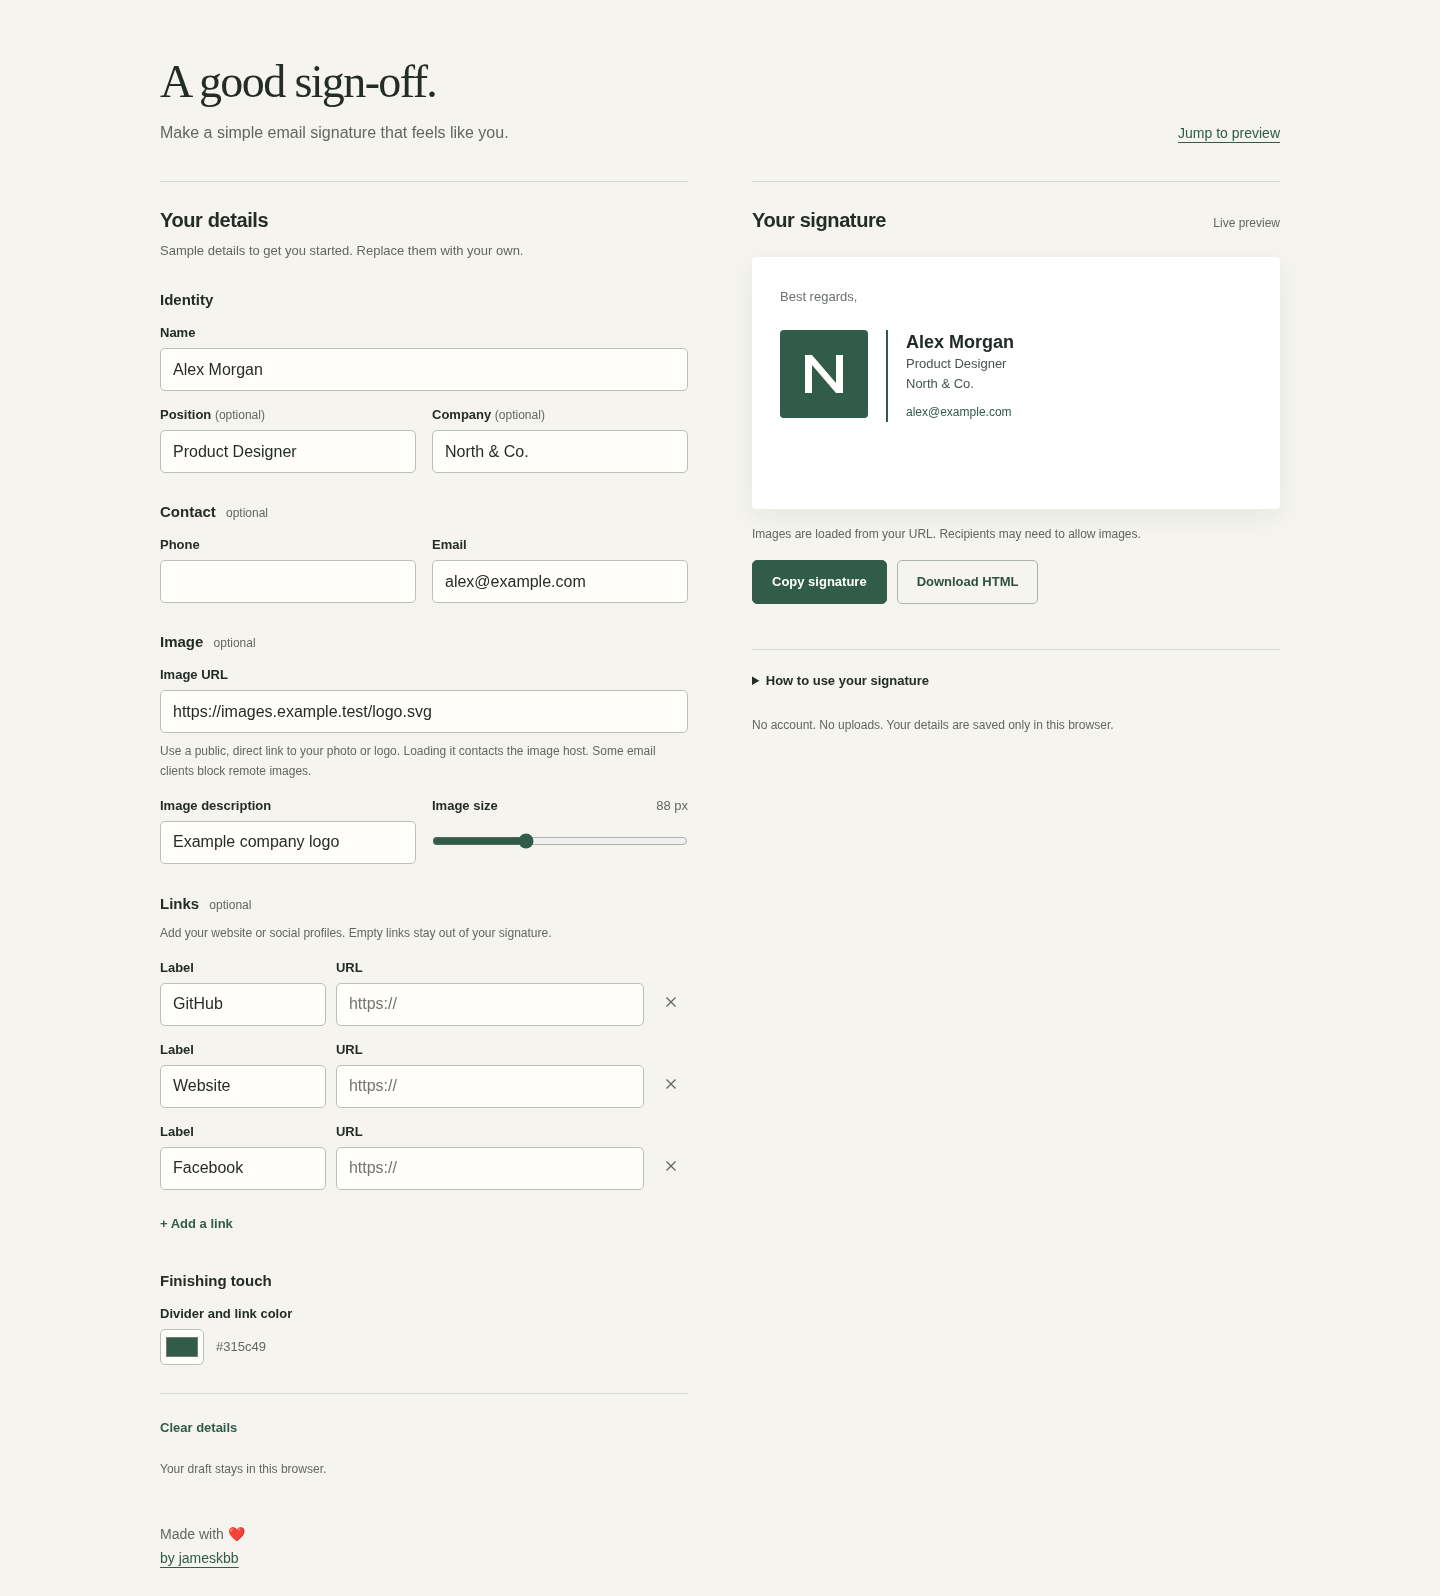
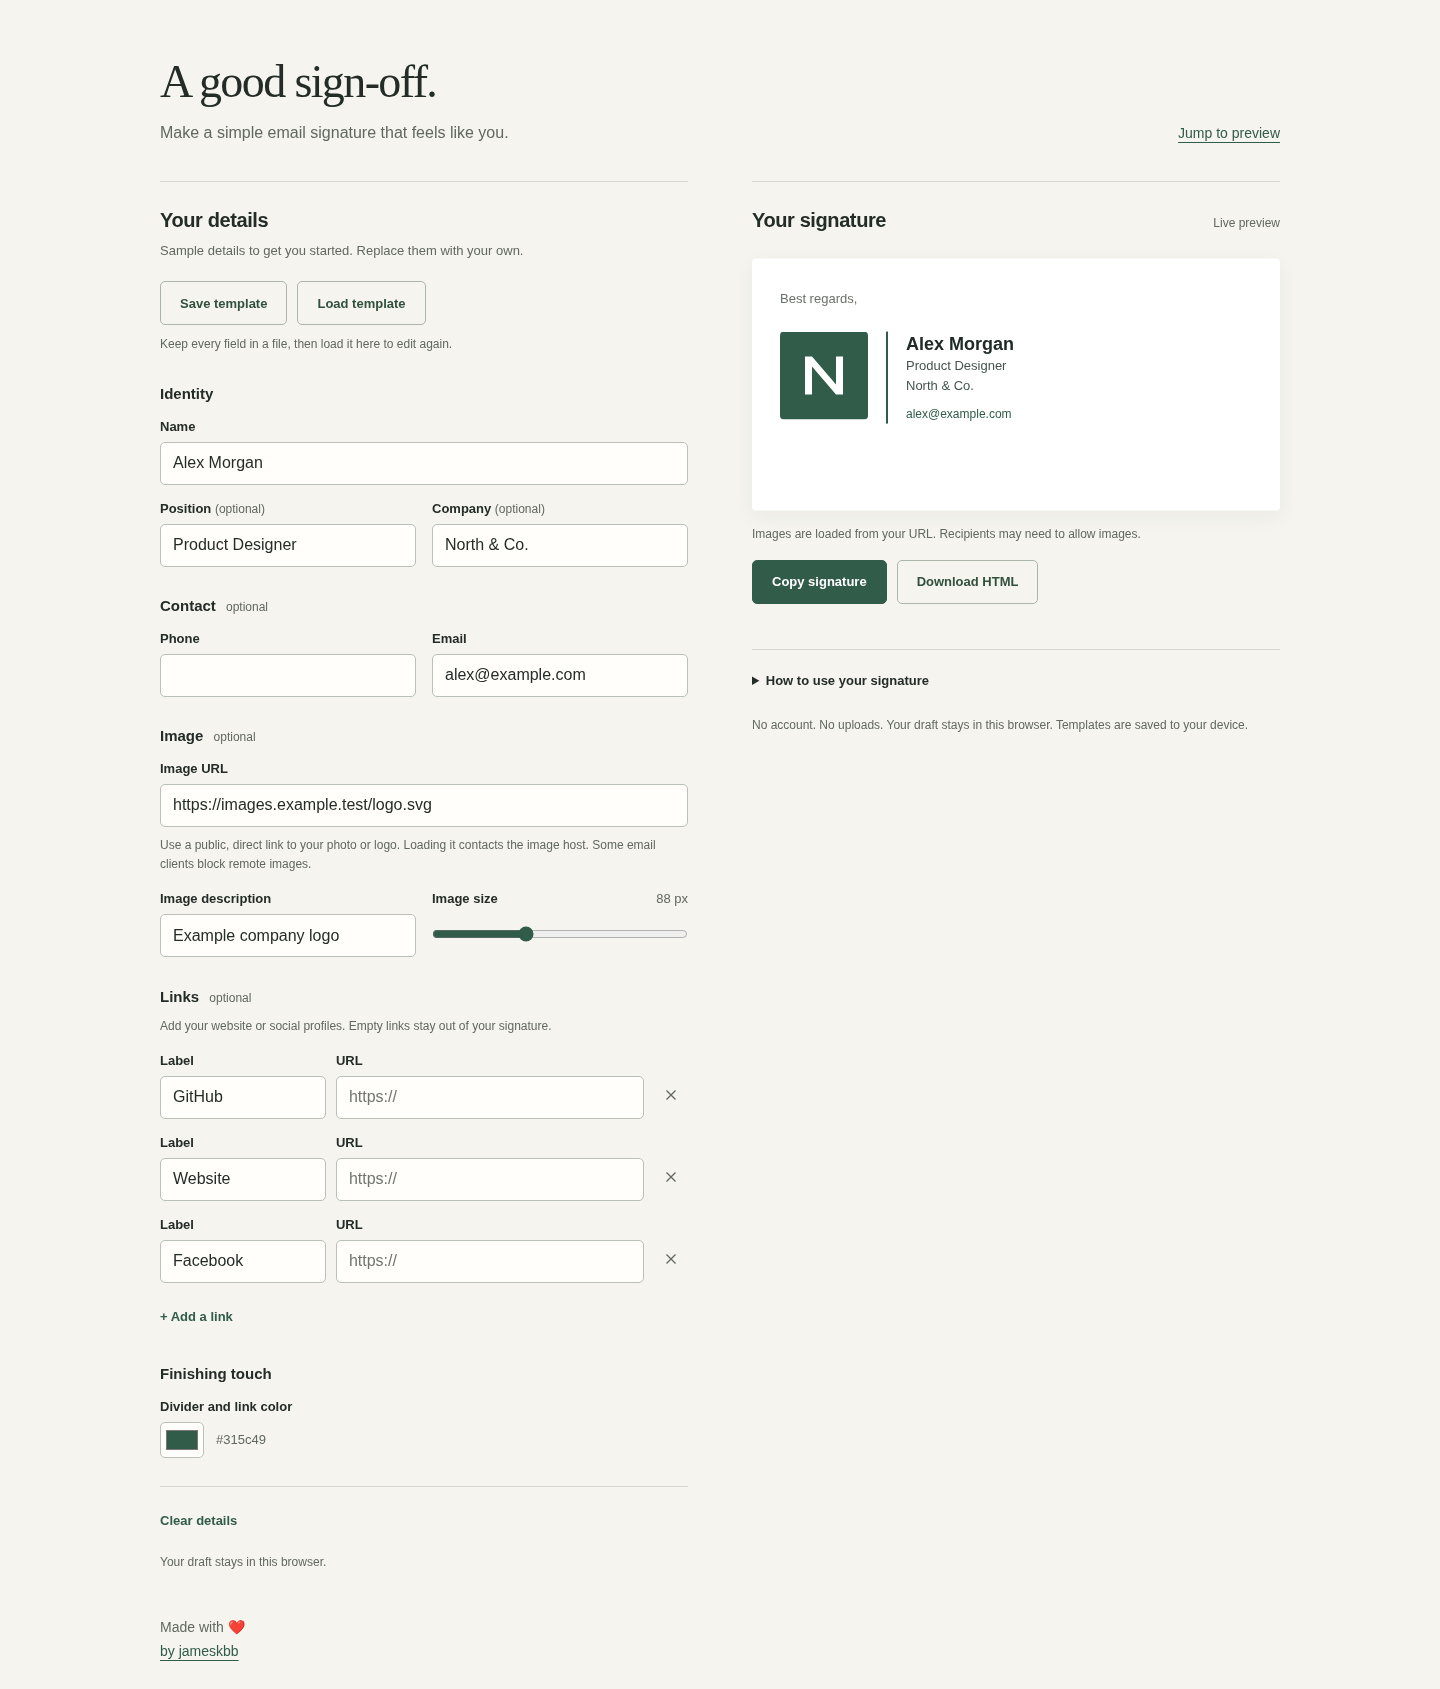
Add lossless signature template save and load
Preserve every editable value in versioned local JSON files, restore saved drafts with undo, and verify complete browser round trips.

diff --git a/app.js b/app.js
@@ -35,19 +35,61 @@
   }
   state = state || clone(sample);
 
+  function persist() {
+    clearTimeout(saveTimer);
+    try {
+      localStorage.setItem(draftKey, JSON.stringify(state));
+      storageUnavailable = false;
+      $('storage-status').textContent = 'Draft saved in this browser.';
+    } catch (error) {
+      storageUnavailable = true;
+      $('storage-status').textContent = 'This browser cannot save your draft. Save a template before closing this page.';
+    }
+  }
   function save() {
     clearTimeout(saveTimer);
-    saveTimer = setTimeout(function () {
-      try {
-        localStorage.setItem(draftKey, JSON.stringify(state));
-        storageUnavailable = false;
-        $('storage-status').textContent = 'Draft saved in this browser.';
-      } catch (error) {
-        storageUnavailable = true;
-        $('storage-status').textContent = 'This browser cannot save your draft. Copy or download it before closing this page.';
-      }
-    }, 250);
+    saveTimer = setTimeout(persist, 250);
   }
+
+  function templateStatus(message, error) {
+    $('template-status').hidden = false;
+    $('template-status').textContent = message;
+    $('template-status').classList.toggle('warning', Boolean(error));
+  }
+  function downloadFile(contents, type, filename) {
+    var url = URL.createObjectURL(new Blob([contents], { type: type }));
+    var anchor = document.createElement('a');
+    anchor.href = url; anchor.download = filename;
+    document.body.appendChild(anchor); anchor.click(); anchor.remove();
+    setTimeout(function () { URL.revokeObjectURL(url); }, 1000);
+  }
+  $('save-template').addEventListener('click', function () {
+    try {
+      downloadFile(SignatureTemplate.serialize(state), 'application/json;charset=utf-8', 'email-signature-template.json');
+      templateStatus('Template saved. Load this file to restore every field, including unfinished details.');
+    } catch (error) { templateStatus(error.message, true); }
+  });
+  $('load-template').addEventListener('click', function () { $('template-file').click(); });
+  $('template-file').addEventListener('change', async function () {
+    var file = this.files[0];
+    this.value = '';
+    if (!file) return;
+    try {
+      if (file.size > SignatureTemplate.maxBytes) throw new Error('This template is too large. Choose a file smaller than 100 KiB.');
+      var loaded = SignatureTemplate.parse(await file.text());
+      clearTimeout(saveTimer);
+      clearTimeout(renderTimer);
+      undoState = clone(state);
+      state = loaded;
+      lastImageUrl = ''; imageFailed = false;
+      fillForm(); changed();
+      clearTimeout(renderTimer);
+      persist();
+      $('restore').textContent = 'Undo load';
+      $('restore').hidden = false;
+      templateStatus('Template loaded. Every field is restored. Use Undo load to restore your previous draft.');
+    } catch (error) { templateStatus(error.message + ' Your draft has not changed.', true); }
+  });
 
   function setError(input, output, message) {
     input.setAttribute('aria-invalid', message ? 'true' : 'false');
@@ -170,6 +212,7 @@
     undoState = clone(state);
     state = { name: '', position: '', company: '', phone: '', email: '', imageUrl: '', imageAlt: '', imageSize: 88, accent: '#315c49', links: [] };
     fillForm(); changed();
+    $('restore').textContent = 'Undo clear';
     $('restore').hidden = false;
     $('action-status').textContent = 'Details cleared. Use Undo clear to restore them.';
     $('name').focus();
@@ -178,7 +221,8 @@
     if (!undoState) return;
     state = undoState; undoState = null;
     $('restore').hidden = true;
-    fillForm(); changed();
+    fillForm(); changed(); persist();
+    templateStatus('Your previous draft is restored.');
     $('action-status').textContent = 'Your previous details are restored.';
     $('name').focus();
   });
@@ -219,11 +263,7 @@
     render();
     if (!valid || !$('preview').innerHTML.trim()) return;
     var html = '<!doctype html>\n<html lang="en"><head><meta charset="utf-8"><meta name="viewport" content="width=device-width, initial-scale=1"><title>Email signature</title></head><body>\n' + Signature.render(state) + '\n</body></html>\n';
-    var url = URL.createObjectURL(new Blob([html], { type: 'text/html;charset=utf-8' }));
-    var anchor = document.createElement('a');
-    anchor.href = url; anchor.download = 'email-signature.html';
-    document.body.appendChild(anchor); anchor.click(); anchor.remove();
-    setTimeout(function () { URL.revokeObjectURL(url); }, 1000);
+    downloadFile(html, 'text/html;charset=utf-8', 'email-signature.html');
     $('action-status').textContent = 'HTML download started. Open the file to view your signature.';
   });
   window.addEventListener('pagehide', function () {

diff --git a/index.html b/index.html
@@ -7,6 +7,7 @@
   <title>Email signature studio</title>
   <link rel="stylesheet" href="styles.css">
   <script src="signature.js" defer></script>
+  <script src="template.js" defer></script>
   <script src="app.js" defer></script>
 </head>
 <body>
@@ -18,12 +19,13 @@
   <main class="workspace">
     <form id="editor" novalidate>
       <div class="editor-intro"><h2>Your details</h2><p id="sample-note">Sample details to get you started. Replace them with your own.</p></div>
+      <div class="template-actions"><button type="button" id="save-template" class="secondary-button">Save template</button><button type="button" id="load-template" class="secondary-button">Load template</button><input type="file" id="template-file" accept=".json,application/json" hidden><p class="field-help">Keep every field in a file, then load it here to edit again.</p><p id="template-status" role="status" aria-live="polite" hidden></p></div>
       <fieldset><legend>Identity</legend>
         <label for="name">Name</label><input id="name" name="name" autocomplete="name" maxlength="160">
         <div class="field-pair"><div><label for="position">Position <span>(optional)</span></label><input id="position" name="position" autocomplete="organization-title" maxlength="160"></div><div><label for="company">Company <span>(optional)</span></label><input id="company" name="company" autocomplete="organization" maxlength="160"></div></div>
       </fieldset>
       <fieldset><legend>Contact <span>optional</span></legend>
-        <div class="field-pair"><div><label for="phone">Phone</label><input id="phone" name="phone" type="tel" autocomplete="tel" maxlength="80"></div><div><label for="email">Email</label><input id="email" name="email" type="email" autocomplete="email" maxlength="254" aria-describedby="email-error"><p class="field-error" id="email-error" hidden></p></div></div>
+        <div class="field-pair"><div><label for="phone">Phone</label><input id="phone" name="phone" type="tel" autocomplete="tel" maxlength="80"></div><div><label for="email">Email</label><input id="email" name="email" type="text" inputmode="email" autocomplete="email" maxlength="254" aria-describedby="email-error"><p class="field-error" id="email-error" hidden></p></div></div>
       </fieldset>
       <fieldset><legend>Image <span>optional</span></legend>
         <label for="imageUrl">Image URL</label><input id="imageUrl" name="imageUrl" type="text" inputmode="url" placeholder="https://example.com/photo.jpg" aria-describedby="image-help image-error">
@@ -38,12 +40,12 @@
       <div class="preview-title"><h2 id="preview-heading" tabindex="-1">Your signature</h2><span>Live preview</span></div>
       <div class="email-paper"><p class="email-context">Best regards,</p><div id="preview" tabindex="0" aria-label="Signature preview"></div><p id="empty-note" class="empty-note" hidden>Add your name or contact details to begin.</p></div>
       <p class="preview-note" id="image-status" role="status"></p>
-      <p id="export-error" class="field-error" hidden>Fix the highlighted fields before copying or downloading.</p>
+      <p id="export-error" class="field-error" hidden>Fix the highlighted fields before copying or downloading HTML. You can still save a template.</p>
       <div class="export-actions"><button type="button" id="copy" class="primary-button">Copy signature</button><button type="button" id="download" class="secondary-button">Download HTML</button></div>
       <p id="action-status" class="action-status" role="status" aria-live="polite"></p>
       <div id="manual-copy" class="manual-copy" hidden><p>Automatic copying is unavailable. Select the signature below, then press Ctrl+C (Windows) or Command+C (Mac).</p><button type="button" id="select-signature" class="secondary-button">Select signature</button></div>
       <details class="paste-help"><summary>How to use your signature</summary><ol><li>Copy your signature.</li><li>Open your email app's settings and find its signature editor.</li><li>Paste, save, and send yourself a test email.</li></ol><p>Email apps may adjust spacing, fonts, or images. The HTML download is useful for apps that accept an HTML file.</p></details>
-      <p class="privacy-note">No account. No uploads. Your details are saved only in this browser.</p>
+      <p class="privacy-note">No account. No uploads. Your draft stays in this browser. Templates are saved to your device.</p>
     </aside>
   </main>
   <footer class="attribution"><span>Made with <span role="img" aria-label="love">❤</span></span><a href="https://github.com/jameskbb">by jameskbb</a></footer>

diff --git a/template.js b/template.js
@@ -1,0 +1,44 @@
+(function () {
+  'use strict';
+  var MAX_BYTES = 100 * 1024;
+  var strings = ['name', 'position', 'company', 'phone', 'email', 'imageUrl', 'imageAlt', 'accent'];
+  function object(value) { return value && typeof value === 'object' && !Array.isArray(value); }
+  function validate(value) {
+    if (!object(value) || value.format !== 'email-signature-template' || value.version !== 1) {
+      throw new Error('Choose an email signature template saved by this editor (version 1).');
+    }
+    var data = value.signature;
+    if (!object(data) || strings.some(function (key) { return typeof data[key] !== 'string'; }) ||
+        !Number.isInteger(data.imageSize) || data.imageSize < 48 || data.imageSize > 160 ||
+        !/^#[0-9a-f]{6}$/i.test(data.accent) || !Array.isArray(data.links) ||
+        data.links.some(function (link) { return !object(link) || typeof link.label !== 'string' || typeof link.url !== 'string'; })) {
+      throw new Error('This template has missing or invalid fields. Choose another template.');
+    }
+    // Copy only editable fields, retaining their exact values and link order.
+    return {
+      name: data.name, position: data.position, company: data.company,
+      phone: data.phone, email: data.email, imageUrl: data.imageUrl,
+      imageAlt: data.imageAlt, imageSize: data.imageSize, accent: data.accent,
+      links: data.links.map(function (link) { return { label: link.label, url: link.url }; })
+    };
+  }
+  function checkSize(text) {
+    if (new TextEncoder().encode(text).length > MAX_BYTES) throw new Error('This template is too large. Choose a file smaller than 100 KiB.');
+  }
+  function parse(text) {
+    checkSize(text);
+    var value;
+    try { value = JSON.parse(text); } catch (error) { throw new Error('This file is not valid JSON. Choose a saved signature template.'); }
+    return validate(value);
+  }
+  function serialize(signature) {
+    var value = { format: 'email-signature-template', version: 1, signature: signature };
+    value.signature = validate(value);
+    var text = JSON.stringify(value, null, 2) + '\n';
+    checkSize(text);
+    return text;
+  }
+  var api = { parse: parse, serialize: serialize, maxBytes: MAX_BYTES };
+  if (typeof module !== 'undefined' && module.exports) module.exports = api;
+  else window.SignatureTemplate = api;
+})();

diff --git a/tests/template.test.js b/tests/template.test.js
@@ -1,0 +1,33 @@
+const { test } = require('node:test');
+const assert = require('node:assert/strict');
+const Template = require('../template.js');
+const signature = {
+  name: '  <img onerror="alert(1)"> Éxample  ', position: '', company: ' Company ',
+  phone: ' +1 (555) 010-1000 ', email: ' unfinished@ ', imageUrl: ' javascript:unfinished ',
+  imageAlt: ' A & B ', imageSize: 137, accent: '#A1b2C3',
+  links: [{ label: ' Second ', url: ' broken url ' }, { label: '', url: '' }, { label: 'First', url: '' }]
+};
+test('exact round trip retains every field, whitespace, unfinished values and ordered blank rows', () => {
+  const encoded = Template.serialize(signature);
+  assert.deepEqual(Template.parse(encoded), signature);
+  assert.equal(Template.serialize(Template.parse(encoded)), encoded);
+  assert.ok(encoded.endsWith('\n'));
+  assert.deepEqual(Object.keys(JSON.parse(encoded)), ['format', 'version', 'signature']);
+});
+test('rejects malformed, unknown and structurally invalid files without changing source data', () => {
+  const before = structuredClone(signature);
+  for (const value of [null, [], {}, { format: 'other', version: 1, signature },
+    { format: 'email-signature-template', version: 2, signature },
+    ...[{ name: null }, { links: [{}] }, { links: 'bad' }, { imageSize: 47 }, { imageSize: 161 }, { imageSize: 80.5 }, { accent: 'red' }, { email: 1 }].map(patch => ({ format: 'email-signature-template', version: 1, signature: { ...signature, ...patch } }))]) {
+    assert.throws(() => Template.parse(JSON.stringify(value)));
+  }
+  assert.throws(() => Template.parse('{'));
+  assert.throws(() => Template.parse(' '.repeat(Template.maxBytes + 1)));
+  assert.deepEqual(signature, before);
+});
+test('omits view-only state and returns independent editable values', () => {
+  const parsed = Template.parse(Template.serialize({ ...signature, sample: true, warning: 'example' }));
+  assert.deepEqual(parsed, signature);
+  parsed.links[0].label = 'changed';
+  assert.equal(signature.links[0].label, ' Second ');
+});

diff --git a/styles.css b/styles.css
@@ -567,3 +567,25 @@ footer {
   font-family: Arial, Helvetica, sans-serif;
   font-style: normal;
 }
+
+.template-actions {
+  display:flex;
+  flex-wrap:wrap;
+  gap:10px;
+  margin-top:20px;
+}
+
+.template-actions p {
+  flex-basis:100%;
+  margin:0;
+  font-size:12px;
+  line-height:1.6;
+}
+
+#template-status {
+  color:var(--green);
+}
+
+#template-status.warning {
+  color:var(--error);
+}

diff --git a/README.md b/README.md
@@ -10,7 +10,7 @@ Make a clean email signature: image on the left, a solid divider, then your name
 
 [View the mobile editor](docs/images/editor-mobile.png).
 
-Plain HTML, CSS, and JavaScript. No account, application dependencies, or build step. Your draft stays in this browser; the image host receives a request when you preview its image.
+Plain HTML, CSS, and JavaScript. No account, application dependencies, or build step. Your draft stays in this browser, and templates can be saved to your device; the image host receives a request when you preview its image.
 
 ## Run
 
@@ -23,6 +23,14 @@ python3 -m http.server 8000 --bind 127.0.0.1
 ```
 
 Open http://localhost:8000. Replace the example details, paste a public direct image URL, and add any links you want. Blank optional fields disappear. Use **Copy signature**, then paste into your email client's signature editor. You can also download the HTML.
+
+## Save and load templates
+
+Use **Save template** to download `email-signature-template.json`, then **Load template** to restore it in this editor on any device. The template retains every editable value exactly: identity, contact details, image URL and description, image size, color, and all links in their original order, including blank rows and whitespace. Unfinished or invalid email addresses and URLs can be saved too; fix highlighted fields before copying or downloading HTML.
+
+Loading replaces your draft and updates the preview and browser storage immediately. **Undo load** restores the previous draft. Invalid, unsupported, or oversized files leave the draft unchanged. Files are read locally, with a 100 KiB limit. Templates contain your entered details in plain text, so keep them wherever you normally store personal files. HTML downloads are rendered signatures, not editable templates.
+
+Templates use JSON with `format: "email-signature-template"`, `version: 1`, and a `signature` object. That object contains `name`, `position`, `company`, `phone`, `email`, `imageUrl`, `imageAlt`, `imageSize` (an integer from 48 to 160), `accent` (a six-digit hex color), and `links` (an ordered array of `{ "label": "...", "url": "..." }` objects). All fields other than image size and the links array are strings.
 
 ## GitHub Pages
 

diff --git a/DESIGN.md b/DESIGN.md
@@ -113,7 +113,7 @@ Controls have gently rounded corners. The email canvas uses a slightly tighter r
 
 ### Buttons
 
-The primary filled green action copies the signature. Download is a quiet bordered secondary action. Text actions add links, clear details, and undo a clear. Primary and secondary actions are at least 44px tall. Focus is a three-pixel green outline with four-pixel offset. Disabled actions have reduced opacity and a not-allowed cursor.
+The primary filled green action copies the signature. Download is a quiet bordered secondary action. Save template and Load template use the same secondary style above the form, with local file status directly underneath. Text actions add links, clear details, and undo a clear or template load. Primary and secondary actions are at least 44px tall. Focus is a three-pixel green outline with four-pixel offset. Disabled actions have reduced opacity and a not-allowed cursor.
 
 ### Inputs / Fields
 

diff --git a/PRODUCT.md b/PRODUCT.md
@@ -24,7 +24,7 @@ Run locally or on GitHub Pages. Copy the rendered signature into an email client
 
 ## Capabilities and Constraints
 
-Live preview, optional contact fields and arbitrary labeled links, hosted image URL, local draft persistence, and email-compatible table markup with inline styles. No account, backend, telemetry, or build toolchain. Email clients may modify pasted formatting or block remote images.
+Live preview, optional contact fields and arbitrary labeled links, hosted image URL, local draft persistence, lossless JSON template save/load with undo, and email-compatible table markup with inline styles. No account, backend, telemetry, or build toolchain. Email clients may modify pasted formatting or block remote images.
 
 ## Product Principles
 

diff --git a/AGENTS.md b/AGENTS.md
@@ -1,6 +1,6 @@
 # Email Signature
 
-A static email signature editor for local use and GitHub Pages. No application dependencies or build step. The browser loads index.html, styles.css, signature.js, and app.js directly.
+A static email signature editor for local use and GitHub Pages. No application dependencies or build step. The browser loads index.html, styles.css, signature.js, template.js, and app.js directly.
 
 ## Run and verify
 

diff --git a/CLAUDE.md b/CLAUDE.md
@@ -1,6 +1,6 @@
 # Email Signature
 
-A static email signature editor for local use and GitHub Pages. No application dependencies or build step. The browser loads index.html, styles.css, signature.js, and app.js directly.
+A static email signature editor for local use and GitHub Pages. No application dependencies or build step. The browser loads index.html, styles.css, signature.js, template.js, and app.js directly.
 
 ## Run and verify
 
